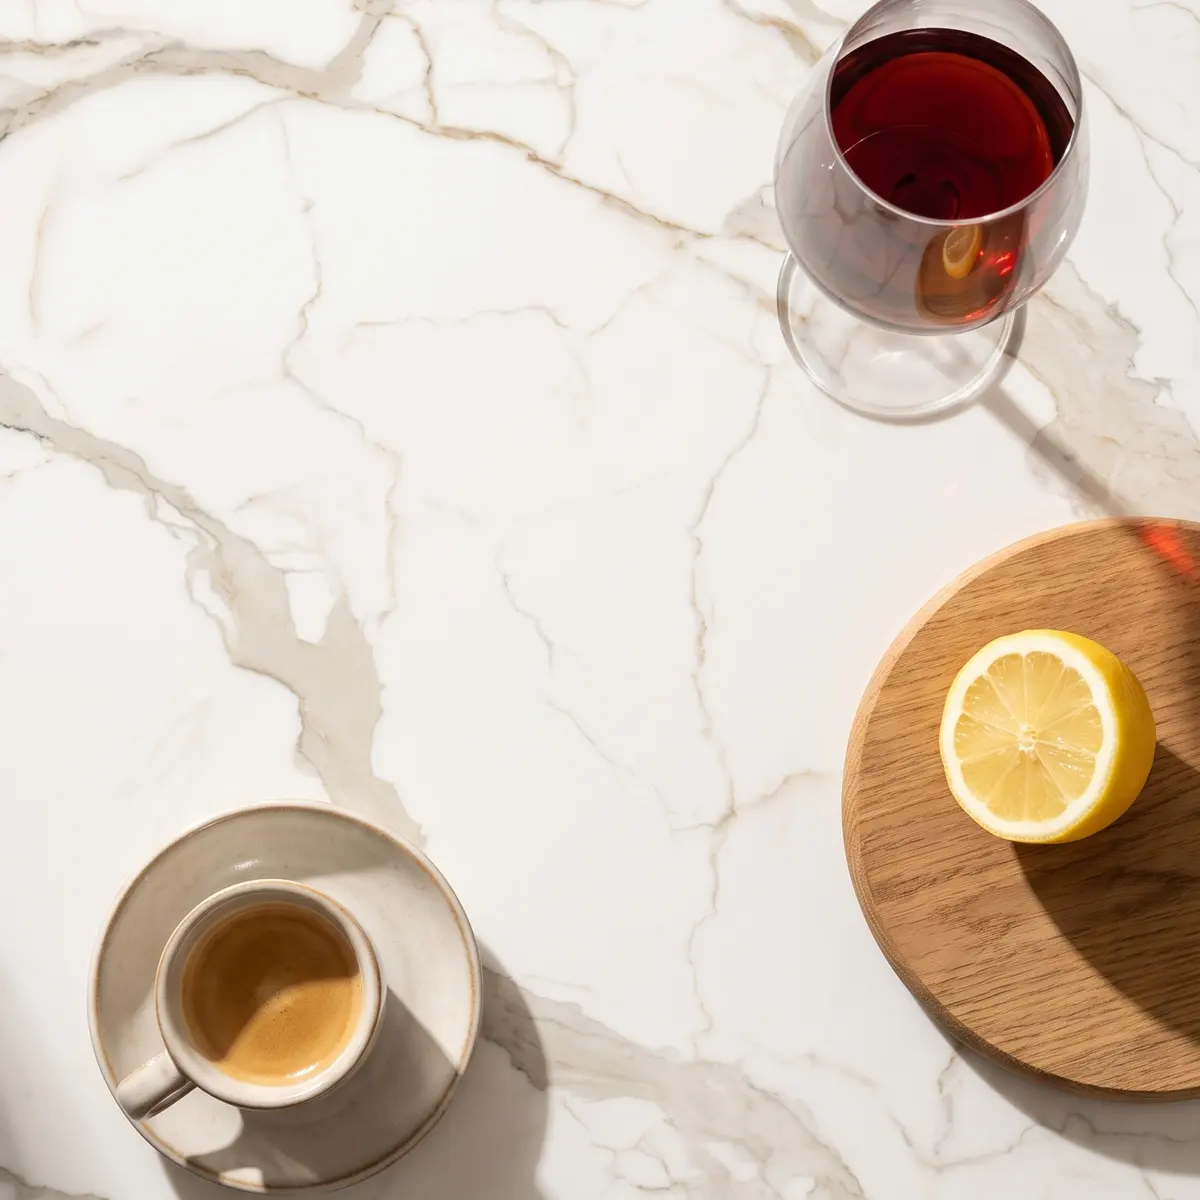
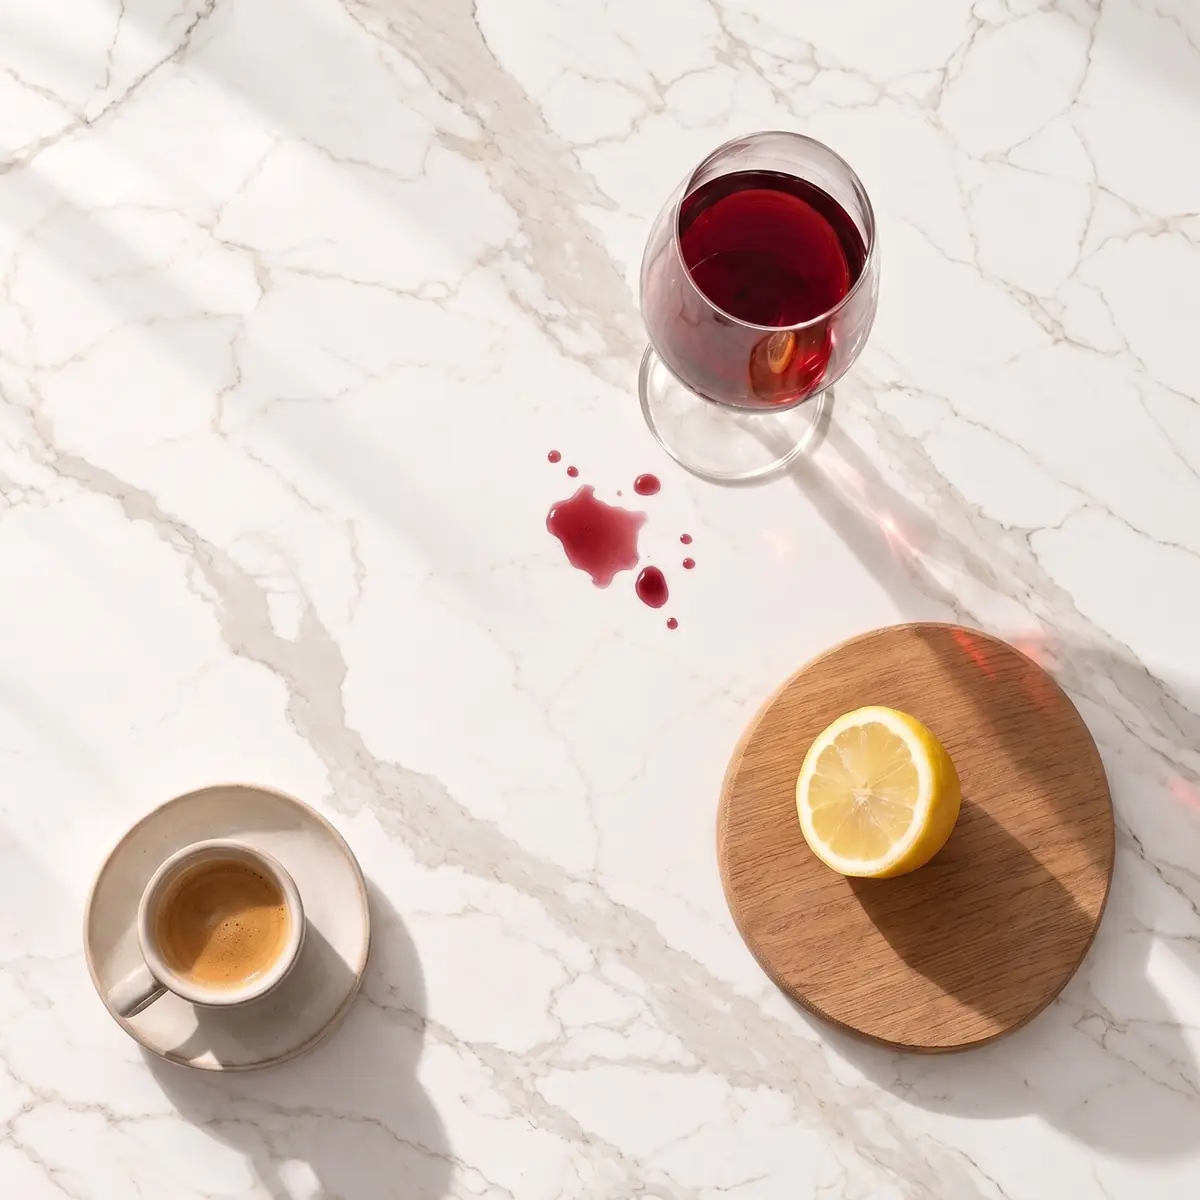
Fotka „Nenasiakavý“: celé predmety a kvapky vína na Calacatta Top
Nová vizualizácia odolnosti voči škvrnám na skutočnom dekore Calacatta
Top: pohľad zhora, pohár červeného vína, espresso a polovica citróna na
dubovej doske, všetko celé v zábere s pokojným odstupom od okrajov (pôvodná
fotka orezávala pohár aj dosku). Medzi nimi rozliate víno a kvapky, ktoré
stoja na povrchu, takže fotka ukazuje, že doska nenasiakne. Ľavý horný roh
ostáva voľný pre ikonu v karte. Súbor zdieľa aj /vyhody; alt text upravený.

Claude-Session: https://claude.ai/code/session_01E4geAPvdG4Ab5KD8BgtnWW

diff --git a/pages/Vyhody.tsx b/pages/Vyhody.tsx
@@ -34,7 +34,7 @@ const FAQ_ITEMS = VYHODY_FAQ;
 const BENEFIT_IMAGES = [
   { base: 'vyhody-teplo', alt: 'Horúci hrniec z nehrdzavejúcej ocele s pokrievkou priamo na pracovnej doske Gothic Gold' },
   { base: 'vyhody-nasiakavost', alt: 'Sprchový kút obložený veľkoformátovými platňami Statuario Diamante' },
-  { base: 'vyhody-skvrny', alt: 'Pohár červeného vína, káva a citrón na doske Calacatta Top, pohľad zhora' },
+  { base: 'vyhody-skvrny', alt: 'Pohár červeného vína s rozliatymi kvapkami, espresso a citrón na doske Calacatta Top, pohľad zhora' },
   { base: 'vyhody-uv', alt: 'Ostrovček Calacatta Top pri veľkom okne v slnečnom svetle' },
   { base: 'vyhody-udrzba', alt: 'Ruka utiera rozliatu tekutinu a omrvinky z dosky Calacatta Top vlhkou utierkou' },
   { base: 'vyhody-varna-doska', alt: 'Ruka kladie hrniec priamo na súvislú dosku Gothic Gold bez viditeľných varných zón, pohľad zhora' },

diff --git a/components/ProductDetail/ResistanceParameters.tsx b/components/ProductDetail/ResistanceParameters.tsx
@@ -39,7 +39,7 @@ export const ResistanceParameters: React.FC<ResistanceParametersProps> = ({ prod
       title: 'Odolnosť voči škvrnám',
       value: product.stainResistance || 'Nenasiakavý',
       description: `Porozita ${product.porosity || '< 0.1%'}`,
-      image: { base: `${IMG}/vyhody-skvrny`, ratio: 1, alt: 'Pohár červeného vína, káva a citrón na doske Calacatta Top, pohľad zhora' },
+      image: { base: `${IMG}/vyhody-skvrny`, ratio: 1, alt: 'Pohár červeného vína s rozliatymi kvapkami, espresso a citrón na doske Calacatta Top, pohľad zhora' },
       icon: Droplet,
     },
   ];
